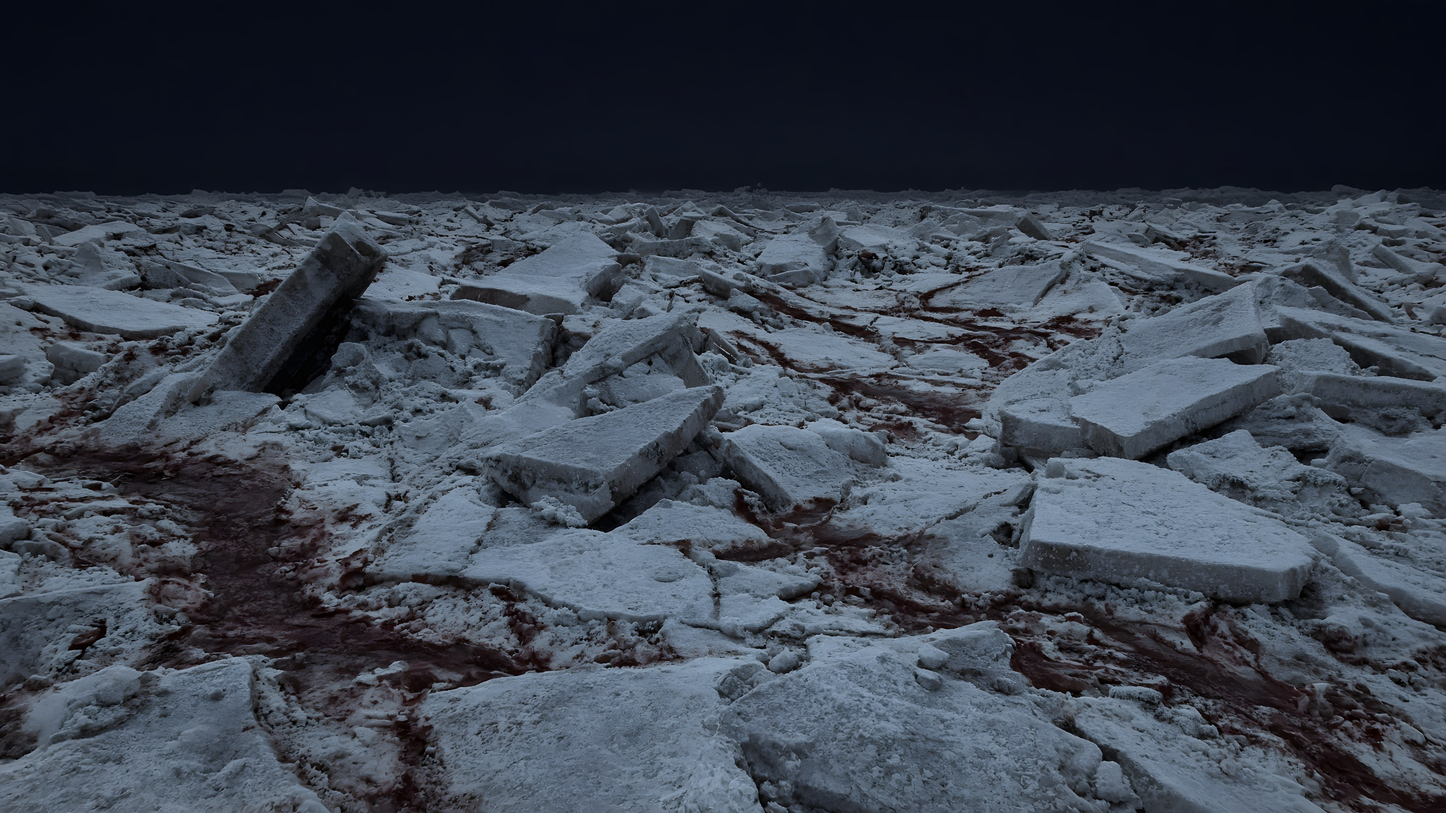
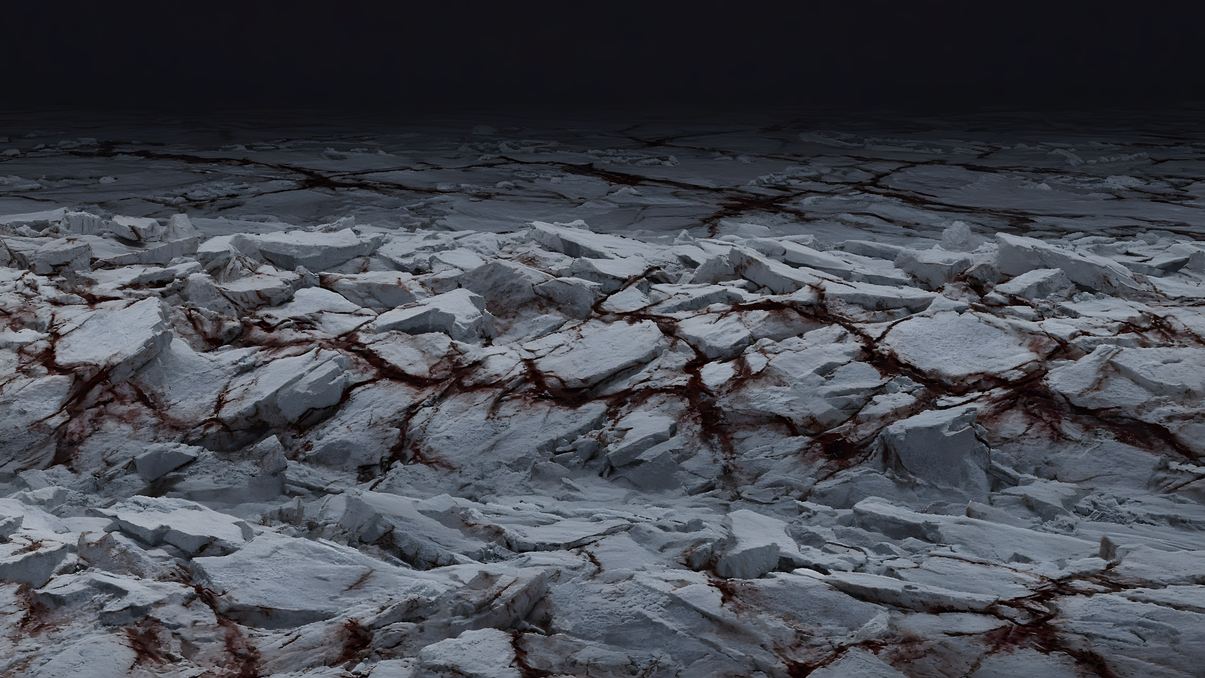
Surface: solid Canyon rock (sky baked, no star bleed), Ridge no-overlap panels + solid bottom, Chaos back = copy of left + softer seams, Fissure brightness blend, in-headset scene menu + version labels

diff --git a/surface/src/main.js b/surface/src/main.js
@@ -406,6 +406,18 @@ scene.add(ground);
 // [KAI] This is the per-teleport load/dispose architecture from the plan.
 // Each location owns an asset group; only the active one is resident.
 // Shared: ground, sky, lights. Per-location: features + high-res textures.
+/* version labels: shown on the desktop HUD and in the headset (look down for the scene menu).
+ * Bump BUILD and the scene's entry whenever a scene's pictures or wiring change. */
+const BUILD = 'Build Oct 31 r2';
+{ const b = document.querySelector('#hud .build'); if (b) b.textContent = BUILD; }
+const SCENE_VER = {
+  'open-ice': 'v3 solid rock',
+  crevasse: 'v2 4-panel',
+  ridge: 'v4 clean seams',
+  chaos: 'v3 Imagine, soft seams',
+  fissure: 'v2 Imagine back',
+  cavern: 'v1 jellies'
+};
 const locationGroups = new Map();
 let activeLocation = null;
 
@@ -450,7 +462,8 @@ function addVista(group, def, opt) {
     uniforms: {
       uMap: { value: null }, uBright: { value: opt.bright ?? 1.0 },
       uKey: { value: opt.keySky ? 1.0 : 0.0 }, uKeyLo: { value: opt.keyLo ?? 0.16 }, uKeyHi: { value: opt.keyHi ?? 0.24 },
-      uTopFade: { value: opt.topFade ?? 0.0 },
+      uTopFade: { value: opt.topFade ?? 0.0 }, uBot: { value: Math.max(opt.bottomFade ?? 0.16, 0.001) },   // bottomFade: soft bottom edge over the procedural ground (0.16 default)
+      uCrop: { value: new THREE.Vector2(opt.cropL ?? 0, opt.cropR ?? 0) },   // hard-cut this fraction of the panel off each side (no overlap with the neighbour)
       uSide: { value: new THREE.Vector2(...[].concat(opt.sideFade ?? 0.16, opt.sideFade ?? 0.16).slice(0, 2)) },
       uTint: { value: new THREE.Vector3(...(opt.tint || [1, 1, 1])) },
       uKeyBand: { value: new THREE.Vector2(...(opt.keyBand || [0.45, 0.62])) }
@@ -462,11 +475,12 @@ function addVista(group, def, opt) {
         gl_Position = projectionMatrix * modelViewMatrix * vec4(position, 1.0); }`,
     fragmentShader: `
       varying vec2 vUv;
-      uniform sampler2D uMap; uniform float uBright, uKey, uKeyLo, uKeyHi, uTopFade; uniform vec2 uKeyBand, uSide; uniform vec3 uTint;
+      uniform sampler2D uMap; uniform float uBright, uKey, uKeyLo, uKeyHi, uTopFade, uBot; uniform vec2 uKeyBand, uSide, uCrop; uniform vec3 uTint;
       void main() {
         vec4 t = texture2D(uMap, vUv);
         float a = smoothstep(0.0, uSide.x, vUv.x) * smoothstep(1.0, 1.0 - uSide.y, vUv.x) // side edges [left,right]
-                * smoothstep(0.0, 0.16, vUv.y);                                   // bottom edge (soft, over procedural ground)
+                * smoothstep(0.0, uBot, vUv.y);                                   // bottom edge (soft, over procedural ground)
+        a *= step(uCrop.x, vUv.x) * step(vUv.x, 1.0 - uCrop.y);
         if (uTopFade > 0.0) a *= smoothstep(1.0, 1.0 - uTopFade, vUv.y);         // top into sky
         if (uKey > 0.5) {                                                         // key the dark sky slot
           float l = dot(t.rgb /* linear */, vec3(0.299, 0.587, 0.114));
@@ -524,6 +538,7 @@ function setCaveEnvironment(on) {
   discs.forEach(d => { d.visible = on ? d.userData.locationId === 'cavern' : true; });
 }
 
+let vrUi = null;   // in-headset label + scene menu (built further down)
 let loadToken = 0;
 async function loadLocation(id) {
   if (activeLocation === id) return;
@@ -545,7 +560,8 @@ async function loadLocation(id) {
   next.loaded = true;
   if (wantCave) cavern.captureReflections(renderer, scene);
   rig.position.set(next.def.pos.x, next.def.playerY || 0, next.def.pos.z);
-  document.querySelector('#hud .loc').textContent = next.def.name;
+  document.querySelector('#hud .loc').textContent = `${next.def.name} · ${SCENE_VER[id] || ''}`;
+  if (vrUi) vrUi.refresh();
   document.querySelectorAll('#teleport-ui button').forEach(b =>
     b.classList.toggle('active', b.dataset.loc === id));
   setTimeout(() => { if (token === loadToken) fadeEl.style.opacity = '0'; }, 220);
@@ -594,12 +610,12 @@ registerLocation({
   build(group) {
     // painted surround: front is Mars's original; left, right and back were added to match it.
     // front on top (wide fades), sides next, back underneath. Dark sky slots are keyed out so the real stars show.
-    const wall = { arcDeg: 116, order: 11, horizon: 0.47, keySky: true, keyLo: 0.01, keyHi: 0.022, keyBand: [0.78, 0.8] };
+    const wall = { arcDeg: 116, order: 11, horizon: 0.47, keySky: true, keyLo: 0.0005, keyHi: 0.0015, keyBand: [0.5, 0.55] };   // sky is baked to pure black in the pictures and rock is floored above it, so only the true sky keys out
     addVista(group, this, { vistas: [
-      { url: './assets/canyon-vista.jpg', yawDeg: 0, arcDeg: 116, horizon: 0.47, order: 12, sideFade: 0.22, keySky: true, keyLo: 0.028, keyHi: 0.065, keyBand: [0.705, 0.725] },  // key only above the far-end sky slot (row ~0.28); the dark back of the canyon floor (rows 0.30-0.55) was being keyed out
+      { url: './assets/canyon-vista.jpg', yawDeg: 0, arcDeg: 116, horizon: 0.47, order: 12, sideFade: 0.22, keySky: true, keyLo: 0.0005, keyHi: 0.0015, keyBand: [0.5, 0.55] },  // sky baked to pure black; dark rock is floored so it can never key out (stars bled through the tall wall before)
       { ...wall, url: './assets/vistas/canyon-left.jpg',  yawDeg: -75, sideFade: [0.16, 0.04] },
       { ...wall, url: './assets/vistas/canyon-right.jpg', yawDeg: 75,  sideFade: [0.04, 0.16] },
-      { url: './assets/vistas/canyon-back.jpg', yawDeg: 180, arcDeg: 140, order: 10, horizon: 0.47, sideFade: 0.04, keySky: true, keyLo: 0.01, keyHi: 0.022, keyBand: [0.72, 0.74] }
+      { url: './assets/vistas/canyon-back.jpg', yawDeg: 180, arcDeg: 140, order: 10, horizon: 0.47, sideFade: 0.04, keySky: true, keyLo: 0.0005, keyHi: 0.0015, keyBand: [0.5, 0.55] }
     ] });
     groundTint(group, this.pos, 0x737a84, 160, 0.7);
     // no procedural ridges here any more: the four panels cover 360 deg and ridges poked above the painted horizon
@@ -638,10 +654,10 @@ registerLocation({
     // front on top, sides next, back underneath; near-hard side edges (0.008) so each panel reads as its own face with a crisp seam. Black painted sky is keyed out so the real stars show.
     const key = { keySky: true, keyLo: 0.012, keyHi: 0.022 };
     addVista(group, this, { vistas: [
-      { ...key, url: './assets/vistas/ridge-front.jpg', yawDeg: 0,   arcDeg: 116, horizon: 0.346, keyBand: [0.66, 0.69], order: 12, sideFade: 0.008, bright: 1.0 },
-      { ...key, url: './assets/vistas/ridge-right.jpg', yawDeg: 75,  arcDeg: 116, horizon: 0.378, keyBand: [0.63, 0.66], order: 11, sideFade: 0.008, bright: 0.88 },
-      { ...key, url: './assets/vistas/ridge-left.jpg',  yawDeg: -75, arcDeg: 116, horizon: 0.338, keyBand: [0.65, 0.68], order: 11, sideFade: 0.008, bright: 1.0 },
-      { ...key, url: './assets/vistas/ridge-back.jpg',  yawDeg: 180, arcDeg: 140, horizon: 0.332, keyBand: [0.66, 0.69], order: 10, sideFade: 0.008, bright: 0.62 }
+      { ...key, url: './assets/vistas/ridge-front.jpg', yawDeg: 0,   arcDeg: 116, horizon: 0.346, keyBand: [0.66, 0.69], order: 12, sideFade: 0.008, bottomFade: 0.02, bright: 1.0 },
+      { ...key, url: './assets/vistas/ridge-right.jpg', yawDeg: 75,  arcDeg: 116, horizon: 0.378, keyBand: [0.63, 0.66], order: 11, sideFade: 0.008, bottomFade: 0.02, bright: 0.88, cropL: 0.349 },
+      { ...key, url: './assets/vistas/ridge-left.jpg',  yawDeg: -75, arcDeg: 116, horizon: 0.338, keyBand: [0.65, 0.68], order: 11, sideFade: 0.008, bottomFade: 0.02, bright: 1.0, cropR: 0.349 },
+      { ...key, url: './assets/vistas/ridge-back.jpg',  yawDeg: 180, arcDeg: 140, horizon: 0.332, keyBand: [0.66, 0.69], order: 10, sideFade: 0.008, bottomFade: 0.02, bright: 0.62, cropL: 0.160, cropR: 0.160 }
     ] });
     groundTint(group, this.pos, 0x707888, 160, 0.7);
     pressureRidges(group, 12, 45, 2.4, this.pos);   // centred on the spot (was the world origin); capped below eye height so none poke above the painted horizon
@@ -661,9 +677,9 @@ registerLocation({
     const side = { arcDeg: 116, order: 11, keySky: true };
     addVista(group, this, { vistas: [
       { url: './assets/chaos-terrain-vista.jpg', yawDeg: 0, arcDeg: 116, horizon: 0.15, order: 12, sideFade: 0.22, keySky: true, keyLo: 0.022, keyHi: 0.034, keyBand: [0.76, 0.84] },
-      { ...side, url: './assets/vistas/chaos-left.jpg',  yawDeg: -75, horizon: 0.17,  keyLo: 0.02, keyHi: 0.035, keyBand: [0.82, 0.85],   sideFade: [0.16, 0.04], bright: 1.2 },
-      { ...side, url: './assets/vistas/chaos-right.jpg', yawDeg: 75,  horizon: 0.325, keyLo: 0.012, keyHi: 0.022, keyBand: [0.665, 0.695], sideFade: [0.04, 0.16], bright: 0.85 },
-      { ...side, url: './assets/vistas/chaos-back.jpg',  yawDeg: 180, arcDeg: 140, order: 10, horizon: 0.236, keyLo: 0.02, keyHi: 0.035, keyBand: [0.754, 0.784], sideFade: 0.04, bright: 1.25 }
+      { ...side, url: './assets/vistas/chaos-left.jpg',  yawDeg: -75, horizon: 0.17,  keyLo: 0.02, keyHi: 0.035, keyBand: [0.82, 0.85],   sideFade: [0.18, 0.04], bright: 1.2 },
+      { ...side, url: './assets/vistas/chaos-right.jpg', yawDeg: 75,  horizon: 0.325, keyLo: 0.012, keyHi: 0.022, keyBand: [0.665, 0.695], sideFade: [0.04, 0.18], bright: 0.75, tint: [1.05, 0.97, 0.92] },
+      { ...side, url: './assets/vistas/chaos-back.jpg',  yawDeg: 180, arcDeg: 140, order: 10, horizon: 0.17,  keyLo: 0.02, keyHi: 0.035, keyBand: [0.82, 0.85],   sideFade: 0.04, bright: 1.2 }   // back = copy of the left picture (Scott's call: the sides look good, the old back had hard seams)
     ] });
     groundTint(group, this.pos, 0x767b86, 160, 0.7);
     // no procedural ridges: the four panels cover 360 deg and ridges poked above the painted horizon
@@ -677,9 +693,9 @@ registerLocation({
     // with a faint glow far below (the cavern's upwelling escaping through a pressure fissure).
     const side = { arcDeg: 116, order: 11, horizon: 0.125, keySky: true, keyLo: 0.012, keyHi: 0.022, keyBand: [0.84, 0.86] };
     addVista(group, this, { vistas: [
-      { url: './assets/fissure-vantage-vista.jpg', yawDeg: 0, arcDeg: 116, horizon: 0.125, order: 12, sideFade: 0.22, keySky: true, keyLo: 0.030, keyHi: 0.050, keyBand: [0.85, 0.89] },
-      { ...side, url: './assets/vistas/fissure-left.jpg',  yawDeg: -75, sideFade: [0.16, 0.04] },
-      { ...side, url: './assets/vistas/fissure-right.jpg', yawDeg: 75,  sideFade: [0.04, 0.16] },
+      { url: './assets/fissure-vantage-vista.jpg', yawDeg: 0, arcDeg: 116, horizon: 0.125, order: 12, sideFade: 0.30, keySky: true, keyLo: 0.030, keyHi: 0.050, keyBand: [0.85, 0.89] },
+      { ...side, url: './assets/vistas/fissure-left.jpg',  yawDeg: -75, sideFade: [0.30, 0.04], bright: 1.4 },
+      { ...side, url: './assets/vistas/fissure-right.jpg', yawDeg: 75,  sideFade: [0.04, 0.30], bright: 0.95 },
       { ...side, url: './assets/vistas/fissure-back.jpg',  yawDeg: 180, arcDeg: 140, order: 10, sideFade: 0.04, horizon: 0.252, keyBand: [0.738, 0.768] }   // Scott's Imagine render (3072 wide), horizon row measured
     ] });
     groundTint(group, this.pos, 0x7f8698, 160);   // blend procedural ice toward the still's foreground tone
@@ -738,6 +754,7 @@ for (let i = 0; i < 2; i++) {
     const m = new THREE.Matrix4().identity().extractRotation(ctl.matrixWorld);
     const dir = new THREE.Vector3(0, 0, -1).applyMatrix4(m).normalize();
     const origin = new THREE.Vector3().setFromMatrixPosition(ctl.matrixWorld);
+    if (vrUi && vrUi.handleSelect(origin, dir)) return;   // the scene menu takes the click first
     tryTeleportFromRay(origin, dir);
   });
   // [KAI] visible pointer ray so you can see where you aim
@@ -757,6 +774,87 @@ for (let i = 0; i < 2; i++) {
   rim.position.set(0, -0.12, -0.32);
   rim.rotation.set(0.15, 0, Math.PI * 0.925); // arc centered at bottom of view
   camera.add(rim); // camera is already in the scene graph via rig — children render fine
+}
+
+/* ---------------------------------------------------------- in-headset label + scene menu */
+// A small label sits low in view at all times (scene name, its version, the build).
+// Look down (or press A/X) and a scene menu opens: point a controller at a scene and pull the trigger.
+// B/Y jumps to the next scene. The page's HTML buttons can't be seen or pressed inside the headset.
+vrUi = (() => {
+  const mk = (w, h) => { const c = document.createElement('canvas'); c.width = w; c.height = h; return c; };
+  const ids = [...locationGroups.keys()];
+  const COLS = 3, ROWS = Math.ceil(ids.length / COLS);
+  const lab = { c: mk(1024, 150) }, menu = { c: mk(1024, 70 + ROWS * 150) };
+  for (const o of [lab, menu]) {
+    o.tex = new THREE.CanvasTexture(o.c); o.tex.colorSpace = THREE.SRGBColorSpace;
+  }
+  const quad = (o, wMeters, z, y) => {
+    const m = new THREE.Mesh(new THREE.PlaneGeometry(wMeters, wMeters * o.c.height / o.c.width),
+      new THREE.MeshBasicMaterial({ map: o.tex, transparent: true, depthTest: false, depthWrite: false, toneMapped: false }));
+    m.renderOrder = 300; m.position.set(0, y, z); m.frustumCulled = false; camera.add(m); return m;
+  };
+  lab.mesh = quad(lab, 0.5, -0.8, -0.27);
+  menu.mesh = quad(menu, 0.95, -0.95, -0.52); menu.mesh.visible = false;
+  let pinned = false;
+  const rr = (g, x, y, w, h, r) => { g.beginPath(); g.moveTo(x + r, y); g.arcTo(x + w, y, x + w, y + h, r); g.arcTo(x + w, y + h, x, y + h, r); g.arcTo(x, y + h, x, y, r); g.arcTo(x, y, x + w, y, r); g.closePath(); };
+  function draw() {
+    let g = lab.c.getContext('2d'); g.clearRect(0, 0, 1024, 150);
+    rr(g, 8, 8, 1008, 134, 28); g.fillStyle = 'rgba(4,14,24,0.78)'; g.fill(); g.strokeStyle = '#4f8fc0'; g.lineWidth = 3; g.stroke();
+    const d = locationGroups.get(activeLocation)?.def;
+    g.fillStyle = '#ffffff'; g.font = 'bold 54px sans-serif'; g.textAlign = 'center';
+    g.fillText(d ? d.name : '', 512, 70);
+    g.fillStyle = '#9fd8ff'; g.font = '36px sans-serif';
+    g.fillText(`${SCENE_VER[activeLocation] || ''}  ·  ${BUILD}`, 512, 118);
+    lab.tex.needsUpdate = true;
+    g = menu.c.getContext('2d'); g.clearRect(0, 0, 1024, menu.c.height);
+    rr(g, 8, 8, 1008, menu.c.height - 16, 30); g.fillStyle = 'rgba(4,14,24,0.88)'; g.fill(); g.strokeStyle = '#4f8fc0'; g.lineWidth = 3; g.stroke();
+    g.fillStyle = '#9fd8ff'; g.font = '34px sans-serif'; g.textAlign = 'center';
+    g.fillText(`Scenes  ·  ${BUILD}`, 512, 54);
+    ids.forEach((id, i) => {
+      const x = 28 + (i % COLS) * 328, y = 76 + Math.floor(i / COLS) * 150, on = id === activeLocation;
+      rr(g, x, y, 312, 136, 22); g.fillStyle = on ? '#1b4a73' : '#0e2a44'; g.fill(); g.strokeStyle = on ? '#8fd0ff' : '#2f5b85'; g.lineWidth = 3; g.stroke();
+      g.fillStyle = '#fff'; g.font = 'bold 36px sans-serif'; g.fillText(locationGroups.get(id).def.name, x + 156, y + 60, 290);
+      g.fillStyle = '#9fd8ff'; g.font = '28px sans-serif'; g.fillText(SCENE_VER[id] || '', x + 156, y + 106, 290);
+    });
+    menu.tex.needsUpdate = true;
+  }
+  const _o = new THREE.Vector3(), _d = new THREE.Vector3();
+  return {
+    refresh: draw,
+    get open() { return menu.mesh.visible; },
+    handleSelect(origin, dir) {
+      if (!menu.mesh.visible) return false;
+      menu.mesh.updateWorldMatrix(true, false);
+      raycaster.set(origin, dir);
+      const hit = raycaster.intersectObject(menu.mesh, false)[0];
+      if (!hit) return false;
+      const x = hit.uv.x * 1024, y = (1 - hit.uv.y) * menu.c.height;
+      const col = Math.floor((x - 28) / 328), row = Math.floor((y - 76) / 150), i = row * COLS + col;
+      if (col >= 0 && col < COLS && row >= 0 && ids[i]) loadLocation(ids[i]);
+      return true;   // a click on the menu panel never falls through to the cycle-scenes fallback
+    },
+    togglePin() { pinned = !pinned; },
+    update() {
+      camera.getWorldDirection(_d);
+      menu.mesh.visible = renderer.xr.isPresenting && (pinned || _d.y < -0.4);
+      lab.mesh.visible = renderer.xr.isPresenting && !menu.mesh.visible;
+    }
+  };
+})();
+vrUi.refresh();
+{ // controller buttons: A/X pins the menu open, B/Y jumps to the next scene
+  const was = new Map();
+  window.__pollPads = () => {
+    const sess = renderer.xr.getSession && renderer.xr.getSession(); if (!sess) return;
+    for (const src of sess.inputSources) {
+      const gp = src.gamepad; if (!gp) continue;
+      const prev = was.get(src) || [];
+      const press = i => gp.buttons[i] && gp.buttons[i].pressed && !prev[i];
+      if (press(4)) vrUi.togglePin();
+      if (press(5)) nextLocation();
+      was.set(src, gp.buttons.map(b => b.pressed));
+    }
+  };
 }
 
 /* ---------------------------------------------------------- desktop fallback + UI */
@@ -853,6 +951,9 @@ renderer.setAnimationLoop(() => {
   if (caveMode && cavern) cavern.update(Math.min(clock.getDelta(), 0.1), now * 0.001);
   else clock.getDelta();
   if (crackGlow && crackGlow.visible) crackGlow.material.opacity = crackGlow.userData.base * (0.8 + 0.2 * Math.sin(now * 0.0012));
+
+  if (renderer.xr.isPresenting) { window.__pollPads && window.__pollPads(); }
+  vrUi.update();
 
   // gentle disc pulse
   const s = 1 + Math.sin(now * 0.003) * 0.06;

diff --git a/surface/index.html b/surface/index.html
@@ -44,7 +44,7 @@
 <body>
 <div id="app"></div>
 <div id="vignette"></div>
-<div id="hud">EUROPA · SURFACE SPIKE<br><span class="fps">-- fps</span><br><span class="loc">Canyon</span></div>
+<div id="hud">EUROPA · SURFACE · <span class="build">build</span><br><span class="fps">-- fps</span><br><span class="loc">Canyon</span></div>
 <div id="teleport-ui"></div>
 <div id="fade"></div>
 <div id="overlay">
